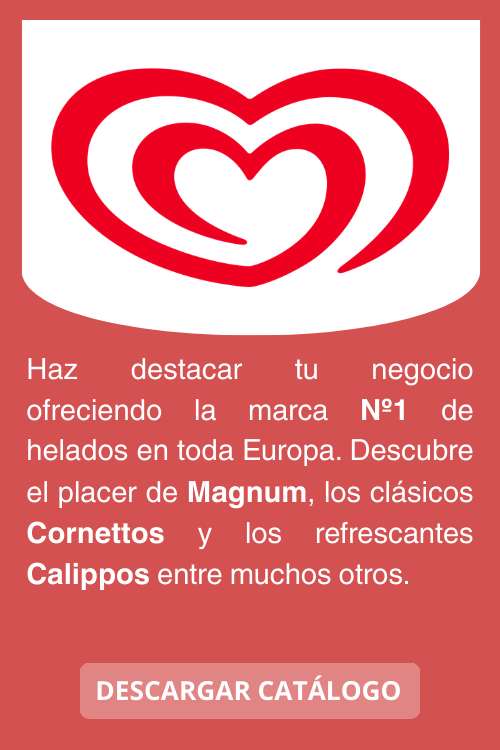
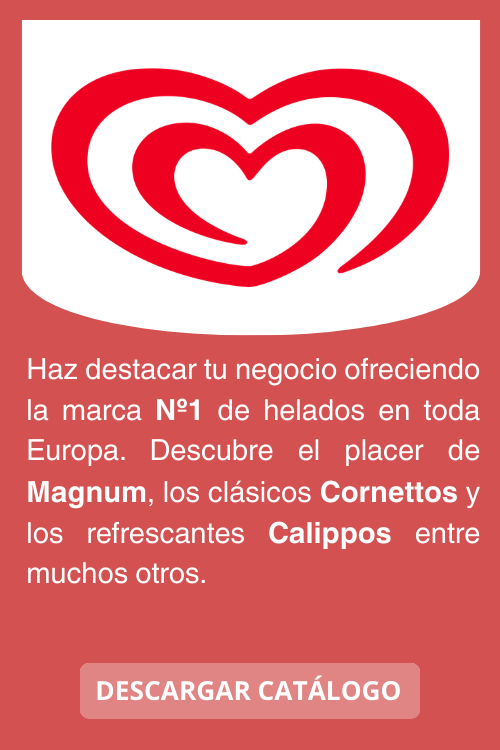
ajustamos algunos espaciados

Changed region(s): [[0.06, 0.46, 0.96, 0.6133], [0.06, 0.644, 0.96, 0.7973]]

diff --git a/css/styles.css b/css/styles.css
@@ -389,7 +389,7 @@ body {
   color: var(--primary);
   font-family: Helvetica, sans-serif;
   font-size: clamp(2.5rem, 2vw + 0.5rem, 1.35rem);
-  margin-top: 5rem;
+  margin-top: 2.75rem;
 }
 
 .servicios-grid {
@@ -862,7 +862,7 @@ body {
   }
 
   .servicios {
-    padding: 2.25rem 1.25rem 2rem;
+    padding: 0.5rem 1.25rem 2rem;
   }
 
   .servicios h1 {
